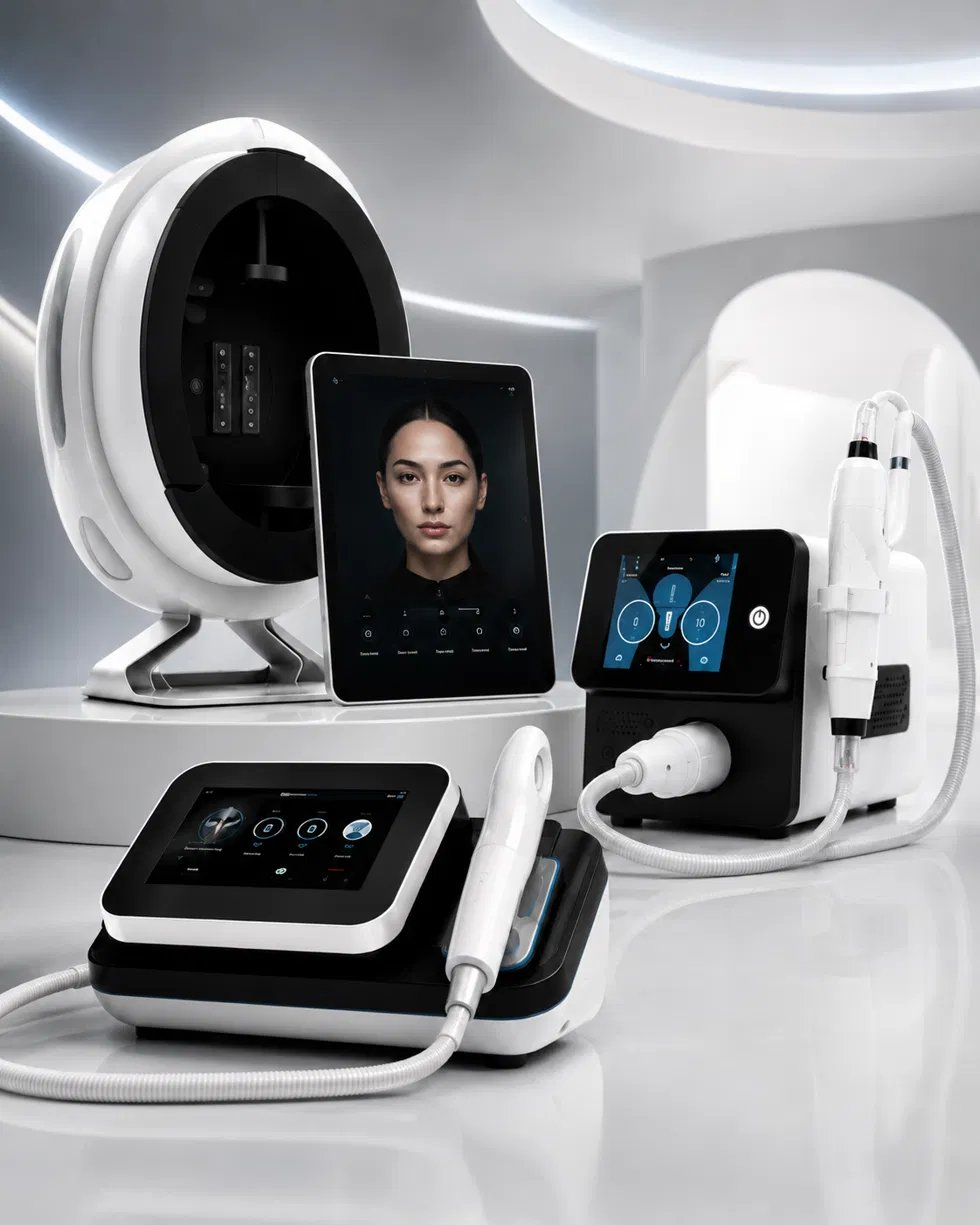
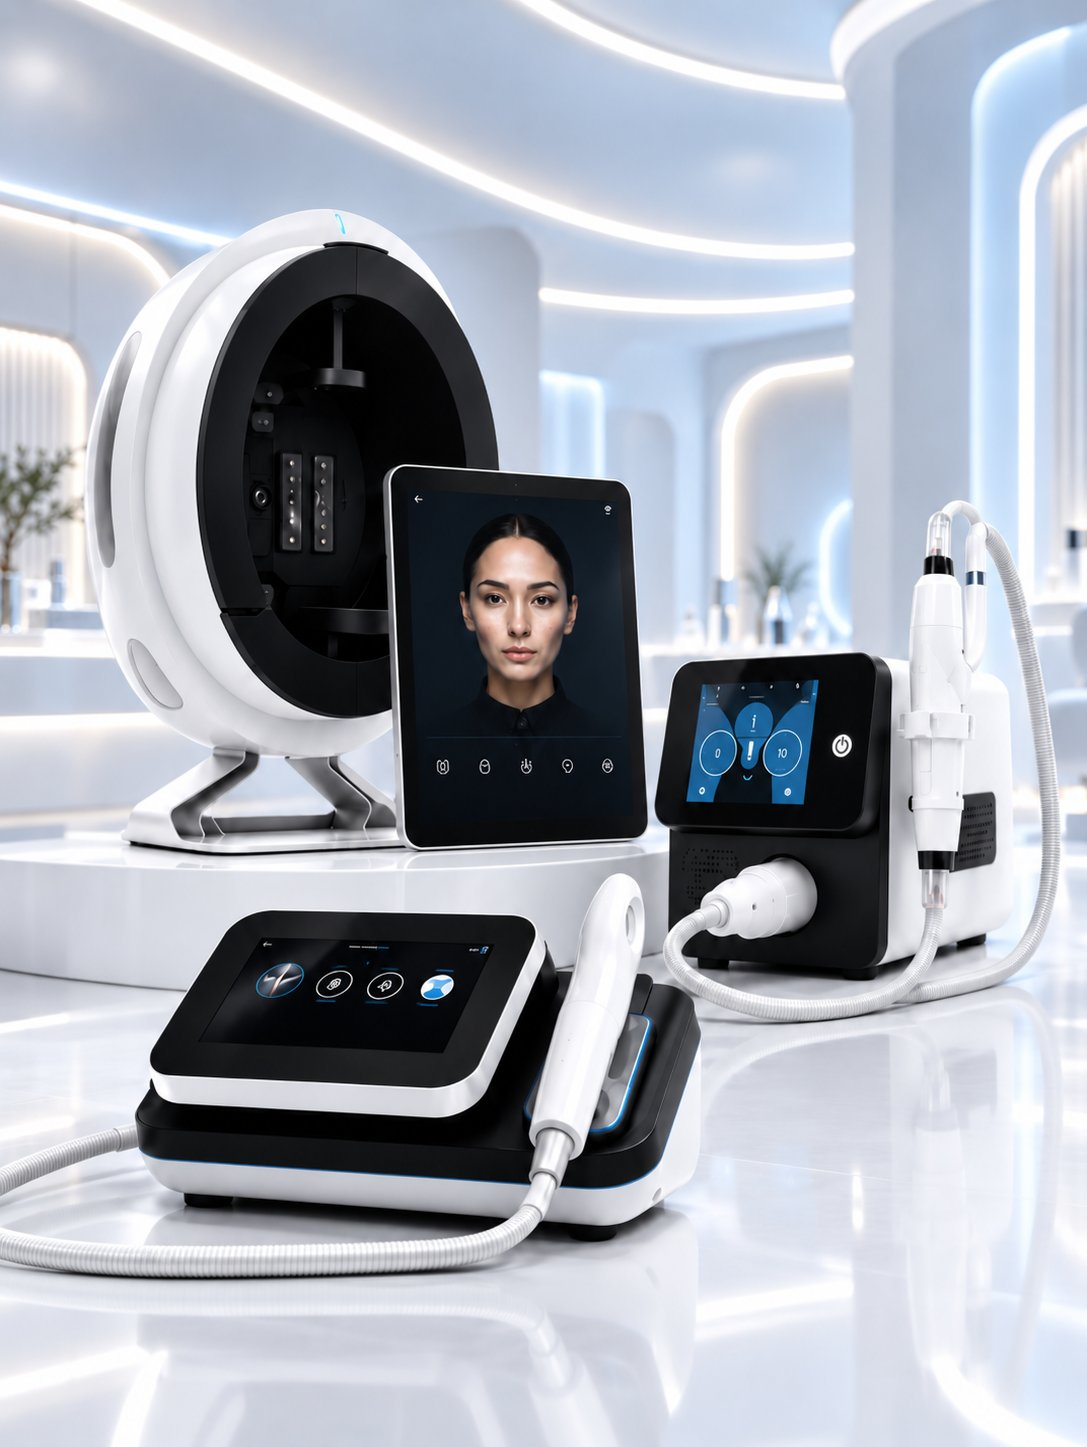
Add files via upload

diff --git a/index.html b/index.html
@@ -37,7 +37,7 @@
       <nav aria-label="Navegación principal">
         <ul class="nav-links">
           <li class="has-dropdown">
-            <button class="nav-dropdown-trigger" aria-expanded="false" aria-controls="tech-dropdown">Tecnología <span class="caret" aria-hidden="true">⌄</span></button>
+            <button class="nav-dropdown-trigger" aria-expanded="false" aria-controls="tech-dropdown">Tecnologías <span class="caret" aria-hidden="true">⌄</span></button>
             <ul class="nav-dropdown" id="tech-dropdown">
               <li><a href="tecnologia-intelligence.html">VÉA Intelligence</a></li>
             <li><a href="tecnologia-skin.html">VÉA Skin</a></li>
@@ -59,7 +59,7 @@
     </div>
   </header>
   <div class="mobile-menu" id="mobile-menu">
-      <span class="mobile-menu-label">Tecnología</span>
+      <span class="mobile-menu-label">Tecnologías</span>
       <a href="tecnologia-intelligence.html" class="mobile-sub">VÉA Intelligence</a>
       <a href="tecnologia-skin.html" class="mobile-sub">VÉA Skin</a>
       <a href="tecnologia-pigment.html" class="mobile-sub">VÉA Pigment</a>
@@ -83,26 +83,7 @@
           <a class="btn btn-primary" href="contacto.html">Agendar una experiencia VÉA <span class="btn-arrow" aria-hidden="true">→</span></a>
           <a class="hero-link-inline" href="#metodo">Descubre el Método VÉA 360° ↘</a>
         </div>
-        <div class="hero-stats">
-          <div>
-            <div class="stat-icon" aria-hidden="true"><svg viewBox="0 0 24 24"><circle cx="10.5" cy="10.5" r="6.5" stroke-width="1.6"/><line x1="15.3" y1="15.3" x2="21" y2="21" stroke-width="1.6" stroke-linecap="round"/></svg></div>
-            <span class="num">01</span>
-            <h4>Diagnóstico</h4>
-            <p>Entender antes de invertir.</p>
-          </div>
-          <div>
-            <div class="stat-icon" aria-hidden="true"><svg viewBox="0 0 24 24"><circle cx="6" cy="6" r="2.2" stroke-width="1.6"/><circle cx="18" cy="6" r="2.2" stroke-width="1.6"/><circle cx="12" cy="18" r="2.2" stroke-width="1.6"/><line x1="7.8" y1="7.2" x2="10.6" y2="16" stroke-width="1.6"/><line x1="16.2" y1="7.2" x2="13.4" y2="16" stroke-width="1.6"/><line x1="8.2" y1="6" x2="15.8" y2="6" stroke-width="1.6"/></svg></div>
-            <span class="num">02</span>
-            <h4>Implementación</h4>
-            <p>Convertir tecnología en protocolos y experiencia.</p>
-          </div>
-          <div>
-            <div class="stat-icon" aria-hidden="true"><svg viewBox="0 0 24 24"><polyline points="3,17 9,11 13,15 21,6" stroke-width="1.6" stroke-linecap="round" stroke-linejoin="round"/><polyline points="15,6 21,6 21,12" stroke-width="1.6" stroke-linecap="round" stroke-linejoin="round"/></svg></div>
-            <span class="num">03</span>
-            <h4>Resultados</h4>
-            <p>Medir impacto clínico y económico.</p>
-          </div>
-        </div>
+        
       </div>
       <div class="hero-visual reveal reveal-delay-2">
         <div class="hero-visual-frame">
@@ -151,6 +132,32 @@
     </div>
   </section>
 
+  <section aria-label="Cómo trabajamos">
+    <div class="container">
+      <div class="hero-stats">
+          <div>
+            <div class="stat-icon" aria-hidden="true"><svg viewBox="0 0 24 24"><circle cx="10.5" cy="10.5" r="6.5" stroke-width="1.6"/><line x1="15.3" y1="15.3" x2="21" y2="21" stroke-width="1.6" stroke-linecap="round"/></svg></div>
+            <span class="num">01</span>
+            <h4>Diagnóstico</h4>
+            <p>Entender antes de invertir.</p>
+          </div>
+          <div>
+            <div class="stat-icon" aria-hidden="true"><svg viewBox="0 0 24 24"><circle cx="6" cy="6" r="2.2" stroke-width="1.6"/><circle cx="18" cy="6" r="2.2" stroke-width="1.6"/><circle cx="12" cy="18" r="2.2" stroke-width="1.6"/><line x1="7.8" y1="7.2" x2="10.6" y2="16" stroke-width="1.6"/><line x1="16.2" y1="7.2" x2="13.4" y2="16" stroke-width="1.6"/><line x1="8.2" y1="6" x2="15.8" y2="6" stroke-width="1.6"/></svg></div>
+            <span class="num">02</span>
+            <h4>Implementación</h4>
+            <p>Convertir tecnología en protocolos y experiencia.</p>
+          </div>
+          <div>
+            <div class="stat-icon" aria-hidden="true"><svg viewBox="0 0 24 24"><polyline points="3,17 9,11 13,15 21,6" stroke-width="1.6" stroke-linecap="round" stroke-linejoin="round"/><polyline points="15,6 21,6 21,12" stroke-width="1.6" stroke-linecap="round" stroke-linejoin="round"/></svg></div>
+            <span class="num">03</span>
+            <h4>Resultados</h4>
+            <p>Medir impacto clínico y económico.</p>
+          </div>
+        </div>
+    </div>
+  </section>
+
+
   <section id="metodo" class="section-dark" aria-labelledby="metodo-h" data-method>
     <div class="container">
       <div class="section-head">
@@ -179,29 +186,6 @@
             <button type="button" data-method-prev aria-label="Etapa anterior">←</button>
             <button type="button" data-method-next aria-label="Etapa siguiente">→</button>
           </div>
-        </div>
-      </div>
-    </div>
-  </section>
-
-  <section class="statement" aria-labelledby="fil-h">
-    <div class="container">
-      <span class="kicker">Filosofía de VÉA</span>
-      <h2 id="fil-h">No vendemos máquinas. Diseñamos tranquilidad clínica.</h2>
-    </div>
-  </section>
-
-  <section class="section-tint" aria-labelledby="academy-h">
-    <div class="container feature-row">
-      <div class="feature-media">
-        <img src="academy-jhoana-alumna-1.jpg" alt="Formación práctica y certificación de equipo clínico en VÉA Academy" loading="lazy">
-      </div>
-      <div>
-        <span class="kicker">VÉA Academy</span>
-        <h2 id="academy-h">La tecnología también necesita un equipo preparado.</h2>
-        <p class="lede">Formación clínica y protocolos para tratar con confianza desde el primer paciente.</p>
-        <div class="feature-actions" style="margin-top:1.6rem;">
-          <a class="btn btn-primary" href="academy.html">Conocer VÉA Academy ↗</a>
         </div>
       </div>
     </div>

diff --git a/tecnologia-pigment.html b/tecnologia-pigment.html
@@ -5,20 +5,20 @@
 <meta charset="utf-8">
 <meta name="viewport" content="width=device-width,initial-scale=1.0">
 <title>VÉA Pigment | VÉA Medical</title>
-<meta name="description" content="VÉA Pigment: plataforma Nd:YAG con 4 longitudes de onda para corrección de pigmentos, tatuajes y Carbon Peel. Ficha técnica y calculadora de ROI.">
+<meta name="description" content="VÉA Pigment: plataforma Nd:YAG con 3 longitudes de onda para corrección de pigmentos, tatuajes y Carbon Peel. Ficha técnica y calculadora de ROI.">
 <link rel="canonical" href="https://veamedical.com/tecnologia-pigment.html">
 <meta name="robots" content="index, follow">
 
 <meta property="og:type" content="website">
 <meta property="og:site_name" content="VÉA Medical">
 <meta property="og:title" content="VÉA Pigment | VÉA Medical">
-<meta property="og:description" content="VÉA Pigment: plataforma Nd:YAG con 4 longitudes de onda para corrección de pigmentos, tatuajes y Carbon Peel. Ficha técnica y calculadora de ROI.">
+<meta property="og:description" content="VÉA Pigment: plataforma Nd:YAG con 3 longitudes de onda para corrección de pigmentos, tatuajes y Carbon Peel. Ficha técnica y calculadora de ROI.">
 <meta property="og:url" content="https://veamedical.com/tecnologia-pigment.html">
 <meta property="og:image" content="https://veamedical.com/hero-portfolio.jpg">
 <meta property="og:locale" content="es_DO">
 <meta name="twitter:card" content="summary_large_image">
 <meta name="twitter:title" content="VÉA Pigment | VÉA Medical">
-<meta name="twitter:description" content="VÉA Pigment: plataforma Nd:YAG con 4 longitudes de onda para corrección de pigmentos, tatuajes y Carbon Peel. Ficha técnica y calculadora de ROI.">
+<meta name="twitter:description" content="VÉA Pigment: plataforma Nd:YAG con 3 longitudes de onda para corrección de pigmentos, tatuajes y Carbon Peel. Ficha técnica y calculadora de ROI.">
 <meta name="twitter:image" content="https://veamedical.com/hero-portfolio.jpg">
 
 <link rel="preconnect" href="https://fonts.googleapis.com">
@@ -37,7 +37,7 @@
       <nav aria-label="Navegación principal">
         <ul class="nav-links">
           <li class="has-dropdown">
-            <button class="nav-dropdown-trigger" aria-expanded="false" aria-controls="tech-dropdown" aria-current="page">Tecnología <span class="caret" aria-hidden="true">⌄</span></button>
+            <button class="nav-dropdown-trigger" aria-expanded="false" aria-controls="tech-dropdown" aria-current="page">Tecnologías <span class="caret" aria-hidden="true">⌄</span></button>
             <ul class="nav-dropdown" id="tech-dropdown">
               <li><a href="tecnologia-intelligence.html">VÉA Intelligence</a></li>
             <li><a href="tecnologia-skin.html">VÉA Skin</a></li>
@@ -59,7 +59,7 @@
     </div>
   </header>
   <div class="mobile-menu" id="mobile-menu">
-      <span class="mobile-menu-label">Tecnología</span>
+      <span class="mobile-menu-label">Tecnologías</span>
       <a href="tecnologia-intelligence.html" class="mobile-sub">VÉA Intelligence</a>
       <a href="tecnologia-skin.html" class="mobile-sub">VÉA Skin</a>
       <a href="tecnologia-pigment.html" class="mobile-sub">VÉA Pigment</a>
@@ -95,7 +95,7 @@
             <div class="spec-frame"><img src="product-pigment.jpg" alt="VÉA Pigment — plataforma Nd:YAG para corrección de pigmentos" loading="lazy"></div>
           </div>
           <div class="spec-stats">
-          <div><strong data-count-to="4">0</strong><span>Cabezales / longitudes de onda</span></div>
+          <div><strong data-count-to="3">0</strong><span>Cabezales / longitudes de onda</span></div>
           <div><strong data-count-to="7">0</strong><span>Aplicaciones clínicas</span></div>
           <div><strong>Nd:YAG</strong><span>Tecnología base</span></div>
           </div>
@@ -107,7 +107,7 @@
             <button class="spec-tab" role="tab" aria-selected="false">Valoramos</button>
           </div>
           <div class="spec-panel" role="tabpanel" ><div class="spec-row"><span class="k">TECNOLOGÍA</span><span class="v">Nd:YAG</span></div>
-              <div class="spec-row"><span class="k">CABEZALES</span><span class="v">4 longitudes de onda</span></div>
+              <div class="spec-row"><span class="k">CABEZALES</span><span class="v">3 longitudes de onda</span></div>
               <div class="spec-row"><span class="k">CALIBRACIÓN</span><span class="v">Incluida en la implementación</span></div>
               <div class="spec-row"><span class="k">PROTOCOLOS</span><span class="v">Estandarizados VÉA</span></div>
               <div class="spec-row"><span class="k">SOPORTE</span><span class="v">Técnico de por vida</span></div></div>

diff --git a/contacto.html b/contacto.html
@@ -37,7 +37,7 @@
       <nav aria-label="Navegación principal">
         <ul class="nav-links">
           <li class="has-dropdown">
-            <button class="nav-dropdown-trigger" aria-expanded="false" aria-controls="tech-dropdown">Tecnología <span class="caret" aria-hidden="true">⌄</span></button>
+            <button class="nav-dropdown-trigger" aria-expanded="false" aria-controls="tech-dropdown">Tecnologías <span class="caret" aria-hidden="true">⌄</span></button>
             <ul class="nav-dropdown" id="tech-dropdown">
               <li><a href="tecnologia-intelligence.html">VÉA Intelligence</a></li>
             <li><a href="tecnologia-skin.html">VÉA Skin</a></li>
@@ -59,7 +59,7 @@
     </div>
   </header>
   <div class="mobile-menu" id="mobile-menu">
-      <span class="mobile-menu-label">Tecnología</span>
+      <span class="mobile-menu-label">Tecnologías</span>
       <a href="tecnologia-intelligence.html" class="mobile-sub">VÉA Intelligence</a>
       <a href="tecnologia-skin.html" class="mobile-sub">VÉA Skin</a>
       <a href="tecnologia-pigment.html" class="mobile-sub">VÉA Pigment</a>
@@ -76,14 +76,14 @@
   <section class="hero" style="min-height:auto; padding-bottom:2rem;">
     <div class="container">
       <span class="kicker">Agenda una Experiencia VÉA</span>
-      <h1 style="max-width:16em;">La confianza para tomar <span class="italic">la decisión</span> correcta.</h1>
+      <h1 style="max-width:16em;">La confianza para tomar la decisión correcta.</h1>
       <p class="lede" style="margin-top:1.5rem;">Un Clinical Technology Partner te acompaña en la evaluación, la selección y la implementación de la tecnología correcta para tu clínica.</p>
     </div>
   </section>
 
   <section aria-labelledby="form-h">
     <div class="container contact-grid">
-      <div class="contact-info">
+      <div class="contact-info" style="background:var(--gray-50); border:1px solid var(--line); padding:2.6rem;">
         <span class="kicker">Contacto directo</span>
         <h2>Hablemos de tu clínica.</h2>
         <p class="lede">Sin compromisos. Sin vendedores. Solo un Clinical Technology Partner que entiende tu negocio y te ayuda a tomar la mejor decisión para tu clínica.</p>

diff --git a/styles.css b/styles.css
@@ -177,8 +177,8 @@ h3{ font-size:clamp(1.25rem, 2.2vw, 1.7rem); font-weight:600; }
 .mobile-menu.is-open{ opacity:1; transform:translateY(0); pointer-events:auto; }
 .mobile-menu a{ font-family:var(--serif); font-weight:600; font-size:1.5rem; text-align:center; letter-spacing:-0.02em; }
 .mobile-menu-label{
-  font-family:var(--sans); font-size:.72rem; font-weight:600; letter-spacing:.1em; text-transform:uppercase;
-  color:var(--gray-500); margin-top:.4rem;
+  font-family:var(--serif); font-weight:600; font-size:1.5rem; letter-spacing:-0.02em;
+  color:var(--black); margin-top:.2rem; text-align:center;
 }
 .mobile-menu a.mobile-sub{ font-family:var(--sans); font-size:1.05rem; color:var(--gray-700); }
 .mobile-menu-divider{ width:48px; height:1px; background:var(--line); margin:.5rem 0; }
@@ -303,9 +303,9 @@ section{ padding:8.5rem 0; }
 .product-card:hover{ transform:translateY(-4px); box-shadow:0 24px 48px -24px rgba(0,0,0,.16); }
 .product-card figure{
   margin:0; aspect-ratio:4/3; background:var(--gray-50);
-  display:flex; align-items:center; justify-content:center; padding:1.8rem;
+  overflow:hidden;
 }
-.product-card figure img{ width:100%; height:100%; object-fit:contain; }
+.product-card figure img{ width:100%; height:100%; object-fit:cover; }
 .product-body{ padding:.2rem 1.6rem 1.8rem; display:flex; flex-direction:column; gap:.6rem; flex:1; }
 .product-body .num{
   font-family:var(--mono); font-size:.75rem; color:var(--accent); display:block; padding-bottom:.7rem; position:relative;
@@ -334,7 +334,7 @@ section{ padding:8.5rem 0; }
 .method-progress-bar{ position:absolute; left:0; top:0; height:100%; background:var(--white); transition:width .4s var(--ease); }
 
 .method-panel{ background:#181818; border:1px solid #2a2a2a; padding:2.6rem; min-height:420px; }
-.method-panel .kicker{ color:var(--gray-500); }
+.method-panel .kicker{ color:var(--white); }
 .method-panel h3{ color:var(--white); font-size:clamp(1.8rem,3vw,2.6rem); margin-bottom:1rem; }
 .method-panel p.lede{ color:var(--gray-300); }
 .method-nav{ display:flex; gap:.7rem; margin-top:2.2rem; }

diff --git a/academy.html b/academy.html
@@ -37,7 +37,7 @@
       <nav aria-label="Navegación principal">
         <ul class="nav-links">
           <li class="has-dropdown">
-            <button class="nav-dropdown-trigger" aria-expanded="false" aria-controls="tech-dropdown">Tecnología <span class="caret" aria-hidden="true">⌄</span></button>
+            <button class="nav-dropdown-trigger" aria-expanded="false" aria-controls="tech-dropdown">Tecnologías <span class="caret" aria-hidden="true">⌄</span></button>
             <ul class="nav-dropdown" id="tech-dropdown">
               <li><a href="tecnologia-intelligence.html">VÉA Intelligence</a></li>
             <li><a href="tecnologia-skin.html">VÉA Skin</a></li>
@@ -59,7 +59,7 @@
     </div>
   </header>
   <div class="mobile-menu" id="mobile-menu">
-      <span class="mobile-menu-label">Tecnología</span>
+      <span class="mobile-menu-label">Tecnologías</span>
       <a href="tecnologia-intelligence.html" class="mobile-sub">VÉA Intelligence</a>
       <a href="tecnologia-skin.html" class="mobile-sub">VÉA Skin</a>
       <a href="tecnologia-pigment.html" class="mobile-sub">VÉA Pigment</a>
@@ -77,7 +77,7 @@
     <div class="container hero-grid">
       <div>
         <span class="kicker">VÉA Academy</span>
-        <h1 style="max-width:14em;">Tu equipo trata con confianza <span class="italic">desde el día 1.</span></h1>
+        <h1 style="max-width:14em;">Tu equipo trata con confianza desde el día 1.</h1>
         <p class="lede">VÉA Academy es la plataforma de formación clínica y certificación oficial con la que tu equipo aprende a utilizar la tecnología con criterio, seguridad y resultados desde el primer tratamiento.</p>
         <div class="badge-row">
           <div><strong>Día 1</strong>Listo para tratar</div>

diff --git a/tecnologia-intelligence.html b/tecnologia-intelligence.html
@@ -37,7 +37,7 @@
       <nav aria-label="Navegación principal">
         <ul class="nav-links">
           <li class="has-dropdown">
-            <button class="nav-dropdown-trigger" aria-expanded="false" aria-controls="tech-dropdown" aria-current="page">Tecnología <span class="caret" aria-hidden="true">⌄</span></button>
+            <button class="nav-dropdown-trigger" aria-expanded="false" aria-controls="tech-dropdown" aria-current="page">Tecnologías <span class="caret" aria-hidden="true">⌄</span></button>
             <ul class="nav-dropdown" id="tech-dropdown">
               <li><a href="tecnologia-intelligence.html">VÉA Intelligence</a></li>
             <li><a href="tecnologia-skin.html">VÉA Skin</a></li>
@@ -59,7 +59,7 @@
     </div>
   </header>
   <div class="mobile-menu" id="mobile-menu">
-      <span class="mobile-menu-label">Tecnología</span>
+      <span class="mobile-menu-label">Tecnologías</span>
       <a href="tecnologia-intelligence.html" class="mobile-sub">VÉA Intelligence</a>
       <a href="tecnologia-skin.html" class="mobile-sub">VÉA Skin</a>
       <a href="tecnologia-pigment.html" class="mobile-sub">VÉA Pigment</a>

diff --git a/tecnologia-skin.html b/tecnologia-skin.html
@@ -37,7 +37,7 @@
       <nav aria-label="Navegación principal">
         <ul class="nav-links">
           <li class="has-dropdown">
-            <button class="nav-dropdown-trigger" aria-expanded="false" aria-controls="tech-dropdown" aria-current="page">Tecnología <span class="caret" aria-hidden="true">⌄</span></button>
+            <button class="nav-dropdown-trigger" aria-expanded="false" aria-controls="tech-dropdown" aria-current="page">Tecnologías <span class="caret" aria-hidden="true">⌄</span></button>
             <ul class="nav-dropdown" id="tech-dropdown">
               <li><a href="tecnologia-intelligence.html">VÉA Intelligence</a></li>
             <li><a href="tecnologia-skin.html">VÉA Skin</a></li>
@@ -59,7 +59,7 @@
     </div>
   </header>
   <div class="mobile-menu" id="mobile-menu">
-      <span class="mobile-menu-label">Tecnología</span>
+      <span class="mobile-menu-label">Tecnologías</span>
       <a href="tecnologia-intelligence.html" class="mobile-sub">VÉA Intelligence</a>
       <a href="tecnologia-skin.html" class="mobile-sub">VÉA Skin</a>
       <a href="tecnologia-pigment.html" class="mobile-sub">VÉA Pigment</a>

diff --git a/tecnologia.html b/tecnologia.html
@@ -37,7 +37,7 @@
       <nav aria-label="Navegación principal">
         <ul class="nav-links">
           <li class="has-dropdown">
-            <button class="nav-dropdown-trigger" aria-expanded="false" aria-controls="tech-dropdown" aria-current="page">Tecnología <span class="caret" aria-hidden="true">⌄</span></button>
+            <button class="nav-dropdown-trigger" aria-expanded="false" aria-controls="tech-dropdown" aria-current="page">Tecnologías <span class="caret" aria-hidden="true">⌄</span></button>
             <ul class="nav-dropdown" id="tech-dropdown">
               <li><a href="tecnologia-intelligence.html">VÉA Intelligence</a></li>
             <li><a href="tecnologia-skin.html">VÉA Skin</a></li>
@@ -59,7 +59,7 @@
     </div>
   </header>
   <div class="mobile-menu" id="mobile-menu">
-      <span class="mobile-menu-label">Tecnología</span>
+      <span class="mobile-menu-label">Tecnologías</span>
       <a href="tecnologia-intelligence.html" class="mobile-sub">VÉA Intelligence</a>
       <a href="tecnologia-skin.html" class="mobile-sub">VÉA Skin</a>
       <a href="tecnologia-pigment.html" class="mobile-sub">VÉA Pigment</a>

diff --git a/clinical-innovation-lab.html b/clinical-innovation-lab.html
@@ -37,7 +37,7 @@
       <nav aria-label="Navegación principal">
         <ul class="nav-links">
           <li class="has-dropdown">
-            <button class="nav-dropdown-trigger" aria-expanded="false" aria-controls="tech-dropdown">Tecnología <span class="caret" aria-hidden="true">⌄</span></button>
+            <button class="nav-dropdown-trigger" aria-expanded="false" aria-controls="tech-dropdown">Tecnologías <span class="caret" aria-hidden="true">⌄</span></button>
             <ul class="nav-dropdown" id="tech-dropdown">
               <li><a href="tecnologia-intelligence.html">VÉA Intelligence</a></li>
             <li><a href="tecnologia-skin.html">VÉA Skin</a></li>
@@ -59,7 +59,7 @@
     </div>
   </header>
   <div class="mobile-menu" id="mobile-menu">
-      <span class="mobile-menu-label">Tecnología</span>
+      <span class="mobile-menu-label">Tecnologías</span>
       <a href="tecnologia-intelligence.html" class="mobile-sub">VÉA Intelligence</a>
       <a href="tecnologia-skin.html" class="mobile-sub">VÉA Skin</a>
       <a href="tecnologia-pigment.html" class="mobile-sub">VÉA Pigment</a>

diff --git a/nosotros.html b/nosotros.html
@@ -36,7 +36,7 @@
       <nav aria-label="Navegación principal">
         <ul class="nav-links">
           <li class="has-dropdown">
-            <button class="nav-dropdown-trigger" aria-expanded="false" aria-controls="tech-dropdown">Tecnología <span class="caret" aria-hidden="true">⌄</span></button>
+            <button class="nav-dropdown-trigger" aria-expanded="false" aria-controls="tech-dropdown">Tecnologías <span class="caret" aria-hidden="true">⌄</span></button>
             <ul class="nav-dropdown" id="tech-dropdown">
               <li><a href="tecnologia-intelligence.html">VÉA Intelligence</a></li>
             <li><a href="tecnologia-skin.html">VÉA Skin</a></li>
@@ -58,7 +58,7 @@
     </div>
   </header>
   <div class="mobile-menu" id="mobile-menu">
-      <span class="mobile-menu-label">Tecnología</span>
+      <span class="mobile-menu-label">Tecnologías</span>
       <a href="tecnologia-intelligence.html" class="mobile-sub">VÉA Intelligence</a>
       <a href="tecnologia-skin.html" class="mobile-sub">VÉA Skin</a>
       <a href="tecnologia-pigment.html" class="mobile-sub">VÉA Pigment</a>

diff --git a/por-que-vea.html b/por-que-vea.html
@@ -36,7 +36,7 @@
       <nav aria-label="Navegación principal">
         <ul class="nav-links">
           <li class="has-dropdown">
-            <button class="nav-dropdown-trigger" aria-expanded="false" aria-controls="tech-dropdown">Tecnología <span class="caret" aria-hidden="true">⌄</span></button>
+            <button class="nav-dropdown-trigger" aria-expanded="false" aria-controls="tech-dropdown">Tecnologías <span class="caret" aria-hidden="true">⌄</span></button>
             <ul class="nav-dropdown" id="tech-dropdown">
               <li><a href="tecnologia-intelligence.html">VÉA Intelligence</a></li>
             <li><a href="tecnologia-skin.html">VÉA Skin</a></li>
@@ -58,7 +58,7 @@
     </div>
   </header>
   <div class="mobile-menu" id="mobile-menu">
-      <span class="mobile-menu-label">Tecnología</span>
+      <span class="mobile-menu-label">Tecnologías</span>
       <a href="tecnologia-intelligence.html" class="mobile-sub">VÉA Intelligence</a>
       <a href="tecnologia-skin.html" class="mobile-sub">VÉA Skin</a>
       <a href="tecnologia-pigment.html" class="mobile-sub">VÉA Pigment</a>
